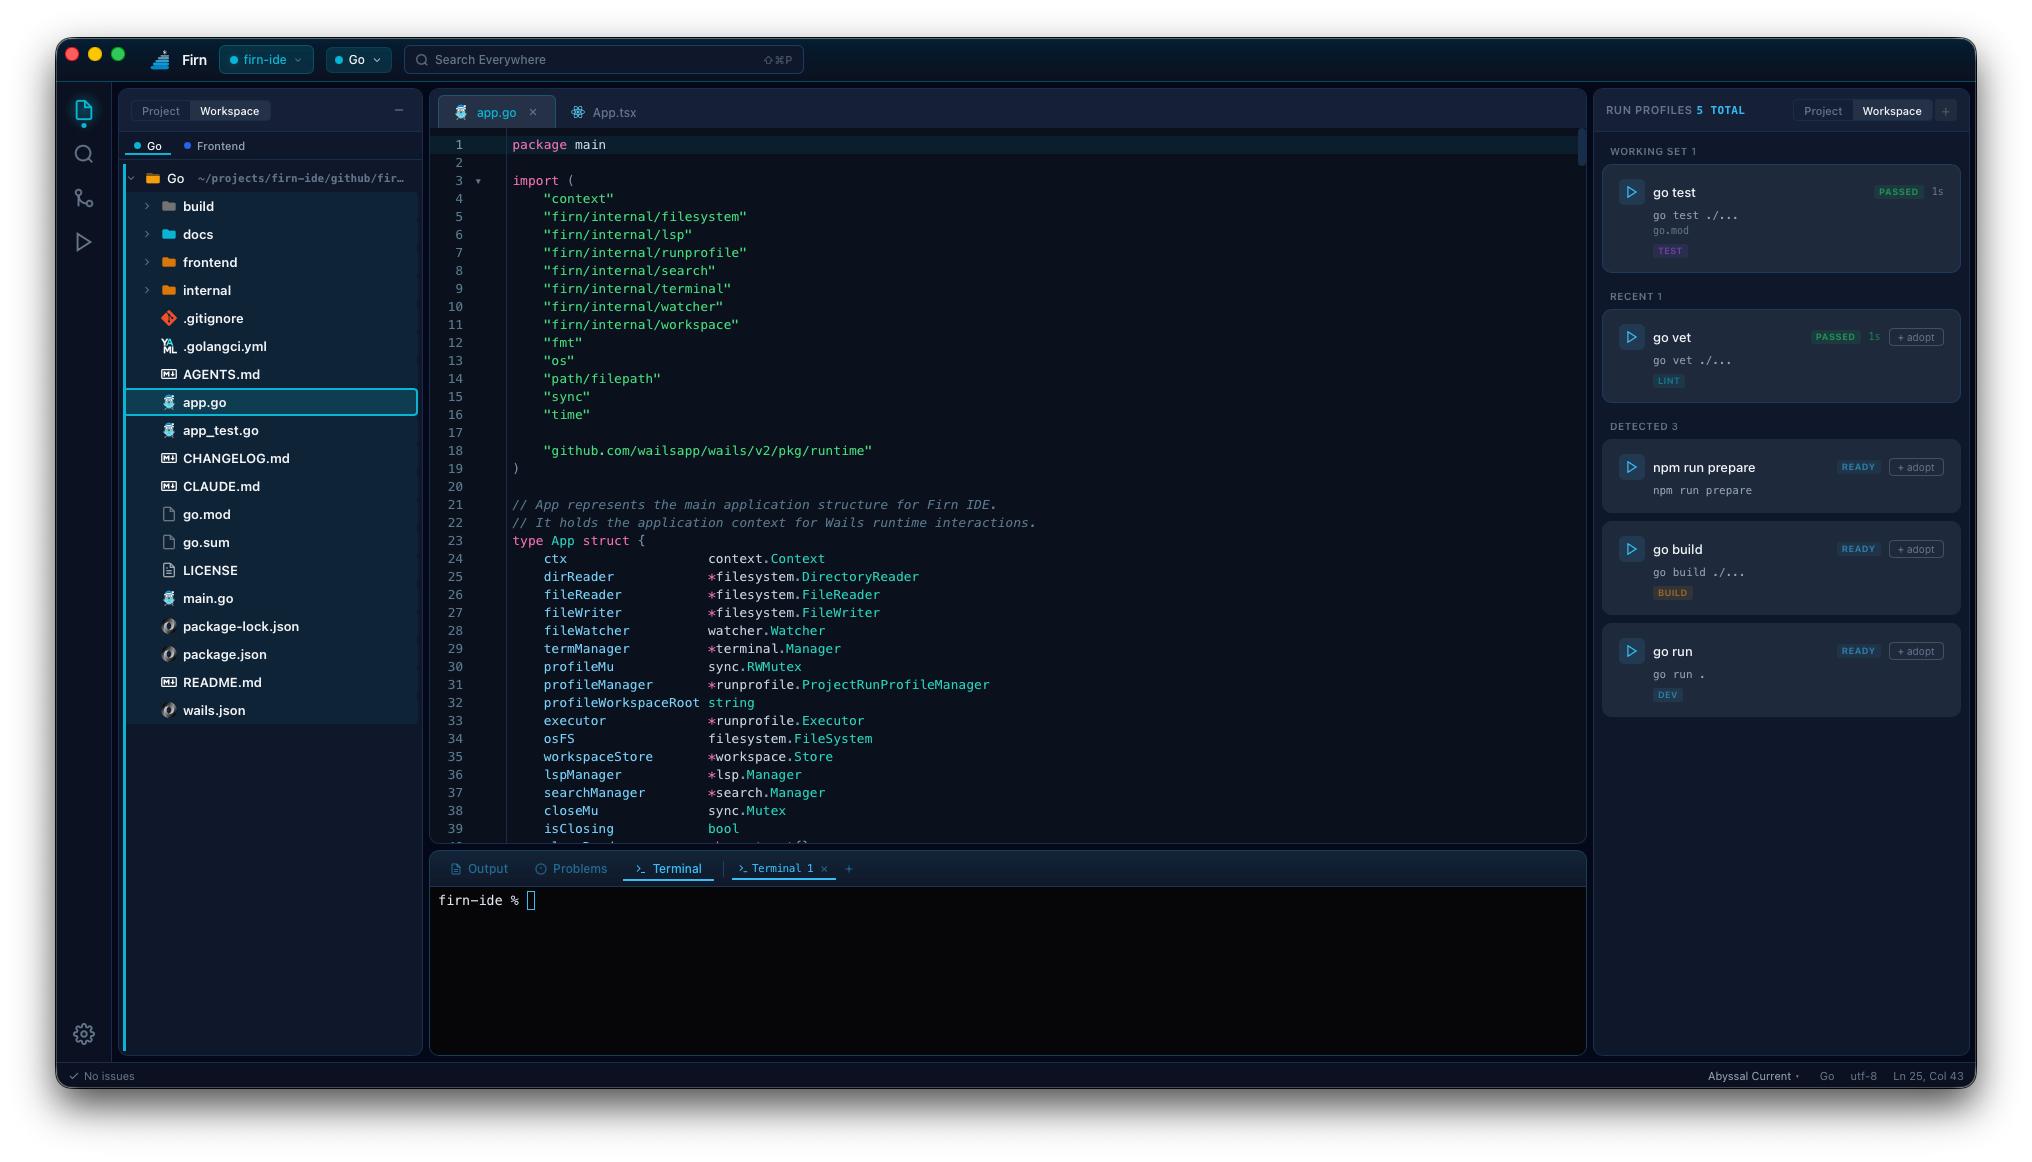
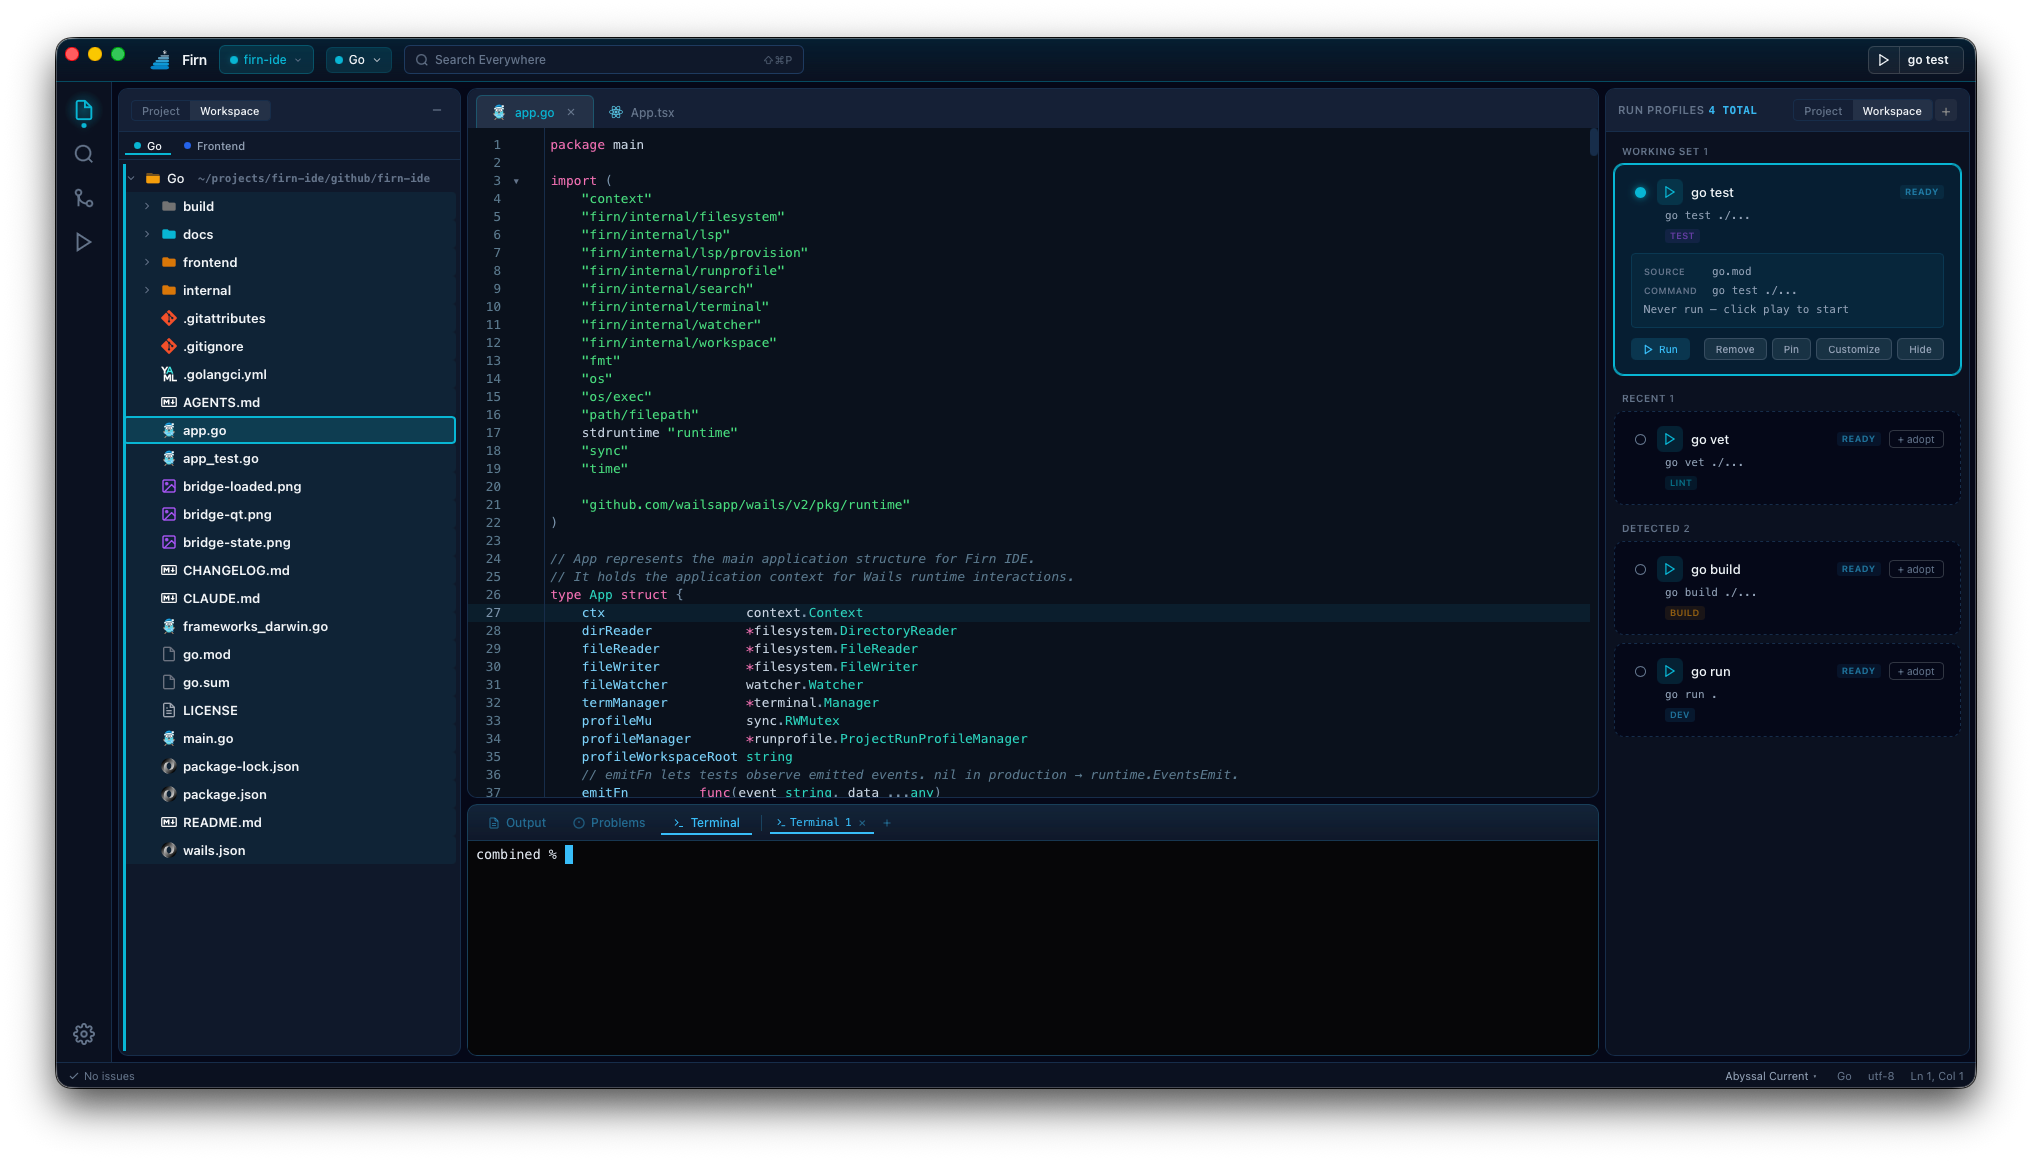
docs: refresh README + roadmap status after #150/#147/#154 (#155)
* docs: refresh README + roadmap status after #150/#147/#154

- README: per-file undo (#153) preserved across tab switches; managed LSP
  provisioning and lazy file-tree loading marked shipped; Planned and
  Current Priorities re-pointed to Git (M7), LSP/lazy follow-ups, run-identity P2.
- roadmap: Progress Summary rows for Performance and Editor & LSP DX updated;
  Next Priorities headline reflects #112 Phase 2 (#150), #37 Phase 2 (#147),
  and #153 (#154) merged; numbered list swaps the two shipped items for their
  open follow-ups (#151/#152, #148/#149).

* updated with workspace and run profiles

---------

Pull request: docs: refresh README + roadmap status after #150/#147/#154
## Summary

Documentation-only refresh to reflect three features merged to develop since Milestone 4 closed:

- #112 Phase 2 managed LSP provisioning (PR #150)
- #37 Phase 2 file-tree lazy directory loading (PR #147)
- #153 per-file undo history on tab switch (PR #154)

## Changes

- README: adds per-file undo to the editor feature list, marks managed server provisioning and lazy file-tree loading as shipped, and re-points the Planned and Current Priorities sections to Git integration (Milestone 7) plus the open LSP/lazy follow-ups and run-identity Phase 2.
- docs/roadmap.md: updates the Progress Summary rows for Performance and Editor & LSP DX, adds a current-status headline to Next Priorities, and swaps the two now-shipped numbered priorities for their open follow-up issues (#151/#152, #148/#149).

## Test plan

- [x] No code changes; docs only.
- [x] Links and issue references verified against merged PRs.

Generated with Claude Code.

diff --git a/README.md b/README.md
@@ -128,7 +128,8 @@ The roadmap includes a built-in AI assistant panel with:
 - [x] Syntax highlighting (JS, TS, Python, Go, CSS, HTML, JSON, Markdown)
 - [x] Tab-based editing with modified indicators
 - [x] JetBrains-style autosave (debounced idle + focus loss)
-- [x] File explorer with tree navigation
+- [x] Per-file undo/redo history preserved across tab switches
+- [x] File explorer with tree navigation — virtualized rows with lazy per-directory loading on expand
 - [x] Workspace accent color system (7 theme variants)
 - [x] Panel layout system with drag-to-resize and collapse/expand
 - [x] Icon system with currentColor SVGs
@@ -142,6 +143,7 @@ The roadmap includes a built-in AI assistant panel with:
 - [x] Completion source with trigger characters, detail/docs, and snippet support
 - [x] Hover tooltips and go-to-definition (`F12`, Cmd/Ctrl-click)
 - [x] Shared registry entries for Go (`gopls`) and Python (`pyright-langserver`)
+- [x] Managed server provisioning — pinned `basedpyright` downloaded into `~/.firn` with interpreter wiring and an offline/retry setup card (active workspace only; never mutates global env/PATH)
 
 **Search**
 - [x] Workspace-wide ripgrep search with regex, case, and whole-word options
@@ -168,9 +170,9 @@ The roadmap includes a built-in AI assistant panel with:
 
 ### Planned
 
-- [ ] Managed LSP server provisioning — download pinned servers into an app cache with offline/retry UI
-- [ ] File-tree lazy loading — load directory children on expand
-- [ ] Git integration — status display and basic operations
+- [ ] Git integration — status display and basic operations (next milestone)
+- [ ] Managed provisioning Phase 3 — `gopls`, `tsserver`, `rust-analyzer` (Python shipped)
+- [ ] Run execution identity Phase 2 — per-run retained tabs, same-profile parallelism, persisted history
 - [ ] AI Chat Panel
 
 ## Project Structure
@@ -255,10 +257,10 @@ See the [Roadmap](docs/roadmap.md) for implementation progress and all tracked i
 
 ## Current Priorities
 
-1. Git integration — status display and basic operations (the next milestone).
-2. Managed LSP server provisioning — download pinned servers with offline/retry UI.
-3. File-tree lazy loading — load directory children on expand.
-4. Run execution identity Phase 2 — per-run retained tabs, same-profile parallelism, persisted run history.
+1. Git integration (Milestone 7: #26 status display, #27 basic operations) — the only unstarted milestone and the highest-value remaining gap.
+2. LSP follow-ups — managed provisioning Phase 3 (#151: gopls/tsserver/rust-analyzer) and Phase 2 polish (#152).
+3. File-tree follow-ups — lazy watcher reconcile (#148) and nested `.gitignore` handling (#149).
+4. Run execution identity Phase 2 (#146) — per-run retained tabs, same-profile parallelism, persisted run history.
 
 ## Contributing
 

diff --git a/docs/roadmap.md b/docs/roadmap.md
@@ -29,8 +29,8 @@ Firn IDE brings the focused, keyboard-first productivity of JetBrains IDEs to a 
 | Milestone 5: Language Server Protocol | **COMPLETE** | #19-22, #73-76 complete |
 | Milestone 6: Search | **COMPLETE** | #23-25 |
 | Milestone 7: Git Integration | Not started | #26-27 |
-| Performance | **IN PROGRESS** | #38 complete; #37 virtualization shipped (#111), lazy-load deferred; #39 open |
-| Editor & LSP DX | **IN PROGRESS** | #113/#114 theme system + #119 picker a11y shipped; #112 Phase 1 (Python env auto-wiring) shipped via #121; #112 Phase 2 open |
+| Performance | **IN PROGRESS** | #38 complete; #37 virtualization (#111) + lazy directory loading Phase 2 (#147) shipped; follow-ups #148/#149; #39 open |
+| Editor & LSP DX | **IN PROGRESS** | #113/#114 theme + #119 picker a11y; #112 Phase 1 env-wiring (#121) + Phase 2 managed provisioning (#150) shipped; per-file undo on tab switch #153 (#154) shipped; follow-ups #151/#152 |
 | Dependency Upgrades | **COMPLETE** | #40 |
 | Code Quality | Not started | #41-42 |
 | Accessibility | Not started | #43 |
@@ -41,7 +41,9 @@ Firn IDE brings the focused, keyboard-first productivity of JetBrains IDEs to a 
 
 ## Next Priorities
 
-Current status: **Milestone 4 (Run Profiles) closed — #103 run execution identity merged via PR #144.** The overloaded `profileId` string (which carried saved-config, compound-aggregate, compound-step, process-key, and event-routing meanings) is replaced by a first-class `RunIdentity{runInstanceId, profileId, parentRunInstanceId?, stepIdx}` embedded in every run event. The executor keys processes/compounds by a per-`Executor` monotonic `runInstanceId` and tracks `activeByProfile` (retiring the old `processAliases`); the synthetic `compound:<base64>:<idx>` step keys and their reserved-namespace validation are deleted; the frontend stores route output by explicit fields with a `runInstanceId`-based stale-drop/rotate rule (no namespace parsing). Documented Stop/Restart/Status semantics: an idle/unknown id is an idempotent no-op, terminal status is retained only for top-level runs. Phase 1 only — **Phase 2** (single-profile output/tabs/history re-keyed to `runInstanceId`, per-run retained tabs, same-profile parallelism, persisted run history) is a separate follow-up ticket. With the #18/#71 UI epic and LANES (#107/#137) already shipped, **Milestone 4 is complete**.
+Current status: **Three features merged to `develop` since Milestone 4 closed.** #112 Phase 2 — managed LSP server provisioning (PR #150, develop `b37d153`): pinned `basedpyright` provisioned into `~/.firn` with uv/poetry interpreter discovery, an interactive picker/Doctor, and offline/retry states; never mutates global env/PATH. #37 Phase 2 — file-tree lazy directory loading (PR #147, develop `ea52af7`): per-directory shallow reads on expand with surgical watcher reconcile, decoupling I/O cost from tree size. #153 — per-file undo history on tab switch (PR #154, develop `4b8357b`): one persistent `EditorView` with a per-file `EditorState` cache and `view.setState` on switch, so undo/redo/selection survive tab switches (JetBrains-style). **Git integration (Milestone 7) is now the only unstarted milestone and the next major target.** Open follow-ups: #151/#152 (LSP provisioning Phase 3 + polish), #148/#149 (lazy-load watcher + nested gitignore), #146 (run-identity Phase 2), #142 (workspace-colored tabs).
+
+Earlier: **Milestone 4 (Run Profiles) closed — #103 run execution identity merged via PR #144.** The overloaded `profileId` string (which carried saved-config, compound-aggregate, compound-step, process-key, and event-routing meanings) is replaced by a first-class `RunIdentity{runInstanceId, profileId, parentRunInstanceId?, stepIdx}` embedded in every run event. The executor keys processes/compounds by a per-`Executor` monotonic `runInstanceId` and tracks `activeByProfile` (retiring the old `processAliases`); the synthetic `compound:<base64>:<idx>` step keys and their reserved-namespace validation are deleted; the frontend stores route output by explicit fields with a `runInstanceId`-based stale-drop/rotate rule (no namespace parsing). Documented Stop/Restart/Status semantics: an idle/unknown id is an idempotent no-op, terminal status is retained only for top-level runs. Phase 1 only — **Phase 2** (single-profile output/tabs/history re-keyed to `runInstanceId`, per-run retained tabs, same-profile parallelism, persisted run history) is a separate follow-up ticket. With the #18/#71 UI epic and LANES (#107/#137) already shipped, **Milestone 4 is complete**.
 
 Earlier: **Milestone 2 closed — #47 Terminal shell integration (OSC 133 error markers + command separators) shipped**: embedded zsh/bash wrapper scripts inject `precmd`/`preexec` hooks (fail-open to a plain shell), an xterm OSC 133 state machine renders red/neutral gutter markers + block separators, atomic wrapper writes for concurrent-creation safety, with PTY-gated emission tests. Also **Milestone 4 #18 Run Profiles UI complete — P4 create/edit form shipped via PR #132**, with a UI/UX polish follow-up (PR #133) and a store persist-failure rollback fix (PR #134). This closes the #18/#71 Run Profiles UI epic. The form is a panel-takeover create / edit / **customize** / delete surface for single profiles: a "Start from" detected-command picker, name + command, working directory (native folder picker, relativized to the repo root), inline `KEY=value` env rows with a duplicate-key guard, an env file, and round-tripped env variants. It is the first consumer of `SaveRunProfile` / `DeleteRunProfile` / `ValidateRunProfile`, which now **emit `runprofiles:changed` on success** so the list refreshes with backend-normalized fields (no optimistic store mutation). **Copy-on-write identity:** editing a detected profile reuses its id so the detected twin is suppressed via `combineUnitLocked` — no duplicate. PR #133 retuned the card color scheme to the workspace-accent palette (a deep-navy `--surface-base` card surface matching the bottom output panel, accent-tinted hover / selected / failed / running states, a filled Cmd+R-target dot + full-card highlight, click-anywhere-to-target) and fixed the header run/stop button rendering as a blank, off-center square (the icon components had no intrinsic size). PR #134 makes `Store.Save` / `Store.Delete` roll back their in-memory mutation when the disk write fails, so memory and disk can't diverge (the emit path made that observable). Remaining Run Profiles work: **#103** (compound execution identity hardening) — the LANES output work (#107 via PR #138, #137 via PR #139) is now shipped.
 
@@ -52,9 +54,9 @@ The **P2 panel (PR #125)** is a four-section working set (Working Set / Pinned /
 Earlier: **#112 Phase 1 (Python LSP environment auto-wiring) shipped via PR #121** — pyright now resolves imports/types in a standard `src`-layout uv/venv project with zero per-project config. New pure `internal/lsp/pythonenv` interpreter/venv detector; the client answers pyright's `workspace/configuration` pull (was replying `-32601` to all server requests — the root cause) and advertises the capability + `didChangeConfiguration`; a Manager-owned, dialect-agnostic `WorkspaceConfigProvider` forwards `pythonPath`/`venvPath`/`analysis.extraPaths`; raw server errors are replaced by a typed setup status + non-blocking `LSPSetupCard`. Earlier shipped: **editor theme system + diagnostic tooltip (#113/#114, PR #117)** with #119 picker focus polish, **terminal PTY-exhaustion actionable error (#116)**, **file-tree / tab-bar scrollbar fixes (#118)**. Milestone 3 (Workspace Management) complete; file-tree virtualization shipped (#37/#38, PR #111). The #17 Run Profiles Execution Engine epic (#59-64) is complete; remaining Run Profiles work is the UI layer. Lazy-loading (#37 Phase 2) deferred to its own spec.
 
 1. **Git integration (Milestone 7: #26 status display, #27 basic operations)** — the only unstarted milestone and the highest-value remaining gap for an IDE: working-tree status in the file tree + status bar, diffs, stage/unstage, commit, and branch display/switch. Greenfield; start with a brainstorming/spec pass.
-2. **#112 Phase 2: LSP managed server provisioning** (Phase 1 env auto-wiring shipped via #121) — download a pinned server binary (`basedpyright` standalone, no Node dependency) into an app cache (`~/.firn/servers/<lang>/<version>/`) when none is found locally/on PATH, with offline/failure → actionable install/retry UI (the `download_available`/`offline` states reserved in Phase 1). Lazy (active workspace only); never mutates the user's global env/PATH. Smaller Phase 1 follow-ups: command-backed uv/poetry env discovery outside the project root, and the interactive interpreter picker / "Doctor" panel (the `action`/`detailCode` status fields already carry the data).
-3. **#37 (Phase 2): File tree lazy loading** — load directory children on expand; own spec (backend per-dir read, watcher reconcile, #54 scoped-tree/active-file reconciliation).
-4. **Run execution identity Phase 2** (follow-up to #103; issue to be filed) — re-key single-profile output/tabs/history by `runInstanceId`: per-run retained tabs, same-profile parallelism, persisted run history, and an internal execution-plan abstraction (`executionNode`) enabling retry/resume/parallel-group later. All five #103 acceptance criteria are already met by Phase 1; this is a capability upgrade, not a fix.
+2. **LSP managed provisioning follow-ups** (#112 Phase 2 shipped via PR #150) — **#151:** Phase 3 provisioning for `gopls`, `tsserver`, and `rust-analyzer` (the Python path is done). **#152:** polish — `configSource "override"` is never emitted so Reset-to-auto is dead UI; `RetryProvision` re-keys to the workspace root rather than the project root for nested monorepos; musllinux node wheels.
+3. **File-tree lazy-loading follow-ups** (#37 Phase 2 shipped via PR #147) — **#148:** lazy watcher reconcile; **#149:** nested `.gitignore` handling.
+4. **Run execution identity Phase 2** (#146; follow-up to #103) — re-key single-profile output/tabs/history by `runInstanceId`: per-run retained tabs, same-profile parallelism, persisted run history, and an internal execution-plan abstraction (`executionNode`) enabling retry/resume/parallel-group later. All five #103 acceptance criteria are already met by Phase 1; this is a capability upgrade, not a fix.
 5. **#142: Workspace-colored open-file tabs** — surfaced while reviewing #117: open editor tabs should always carry their owning workspace's accent (tab/font) regardless of the active workspace, so files are instantly attributable; future stretch is filtering open tabs to the active workspace. Bundle the **button-in-button DOM fix** in the editor tab bar (close `<button>` nested inside the tab `<button role="tab">` → React hydration warning) since it touches the same component.
 6. **#143: File-level infra accent in the tree** — surfaced during #123 testing: infra files (`Dockerfile`, `docker-compose.y*ml`, `.dockerignore`, `*.tf`/`*.tfvars`) should render with the Docker (purple) / Terraform (amber) accent even when shown inside another workspace's tree, so deployment/infra files are spottable regardless of the active workspace. File-level decoration layered on the existing per-workspace tinting.
 